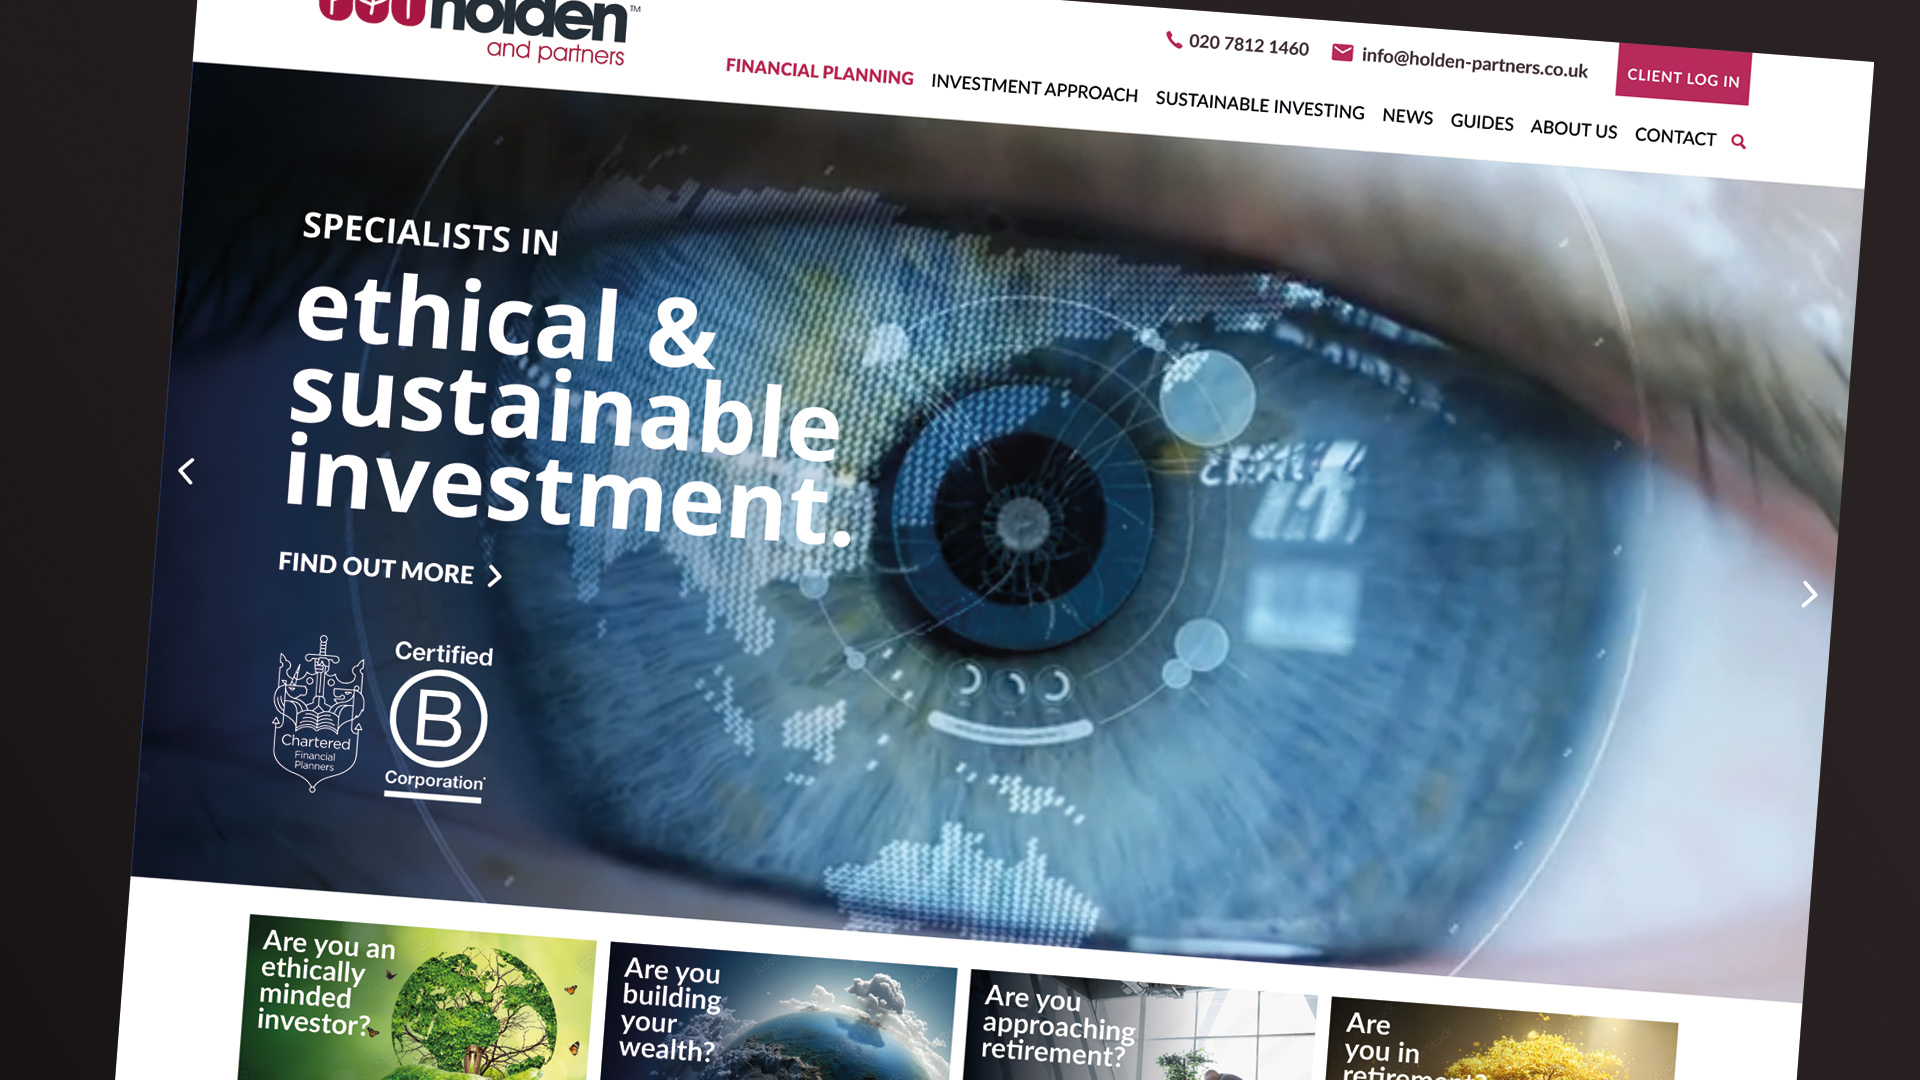
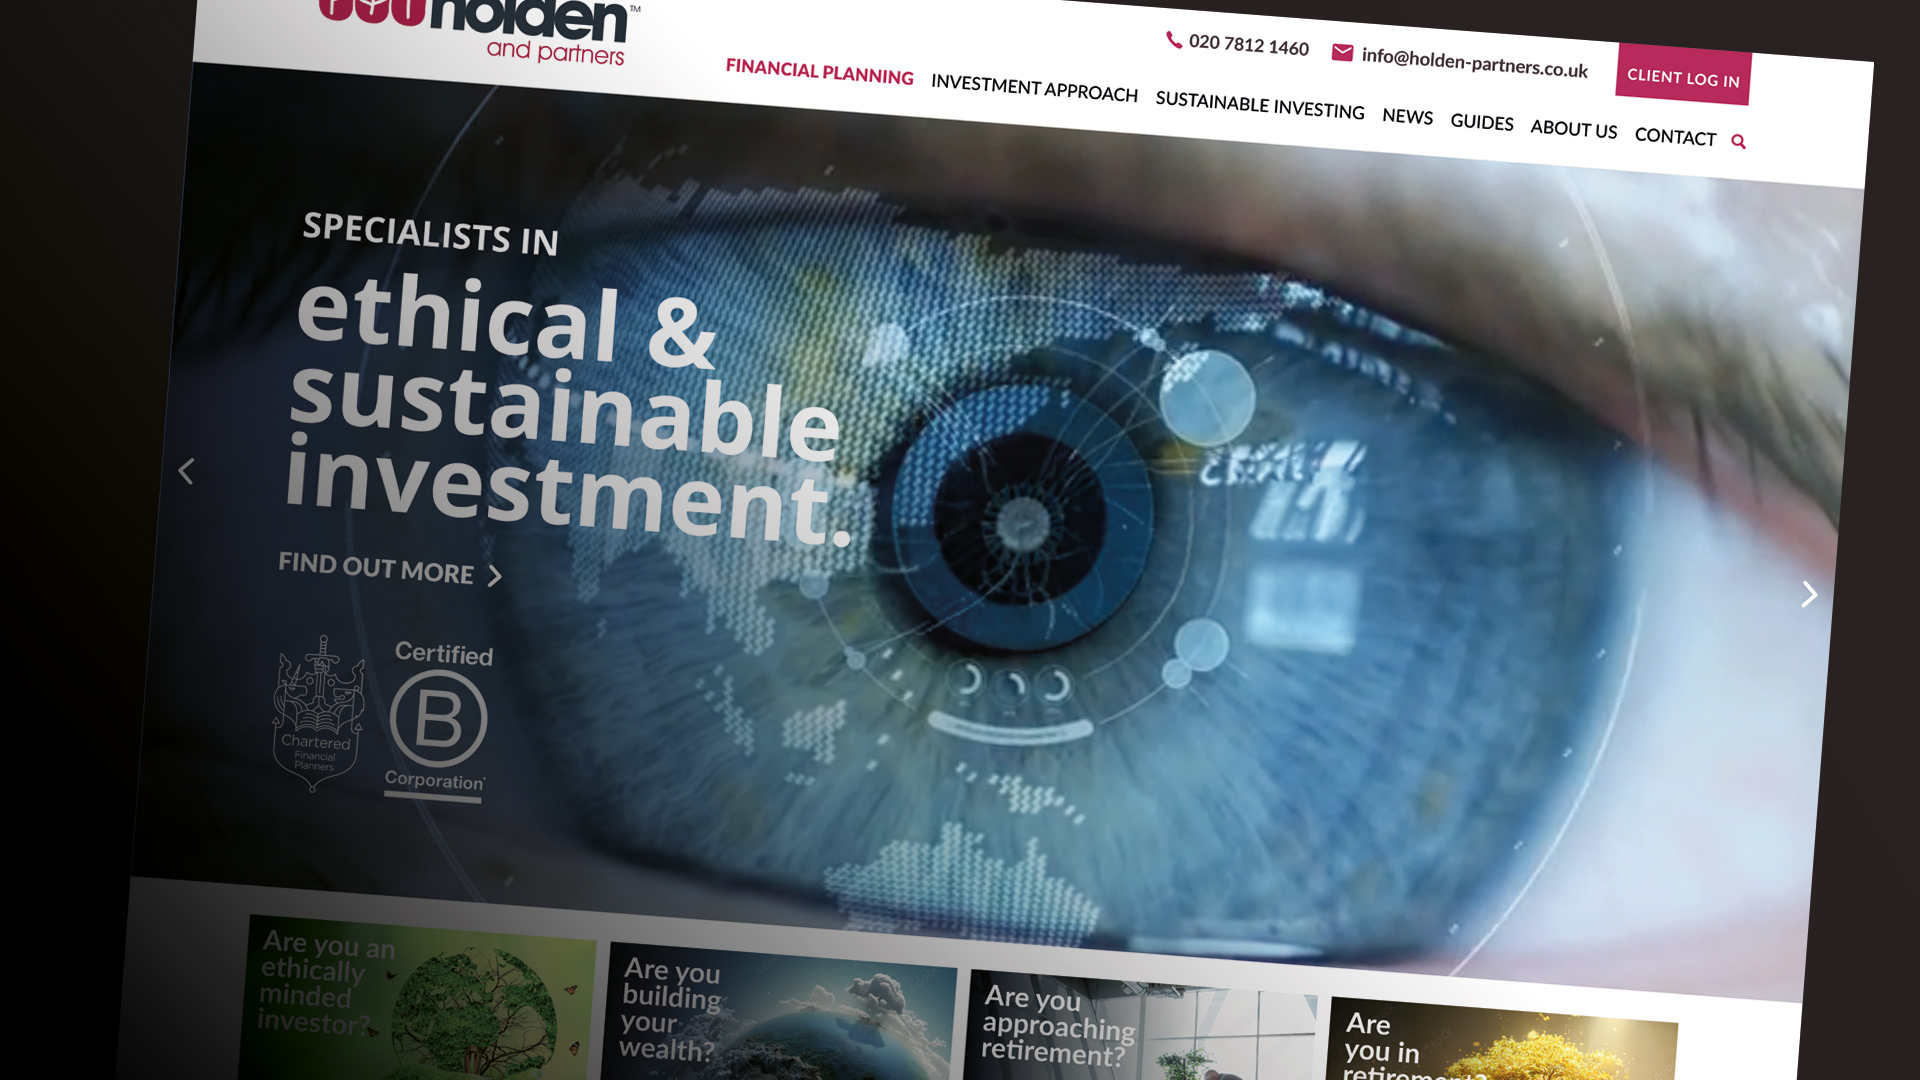
1

Changed region(s): [[0.0, 0.1833, 0.7188, 1.0], [0.0938, 0.0, 0.2812, 0.0917]]

diff --git a/sectors/professional-services/index.html b/sectors/professional-services/index.html
@@ -124,8 +124,8 @@
 <section class="page-hero">
   <div class="hero-media">
     <div class="hero-slides" id="heroSlides">
-      <div class="hero-slide active"></div>
-      <div class="hero-slide"></div>
+      <div class="hero-slide active" style="background-image:url('/images/hero-professional-services-1.jpg');background-size:cover;background-position:center;"></div>
+      <div class="hero-slide" style="background-image:url('/images/hero-professional-services-2.jpg');background-size:cover;background-position:center;"></div>
       <div class="hero-slide"></div>
     </div>
     <div class="hero-overlay"></div>
